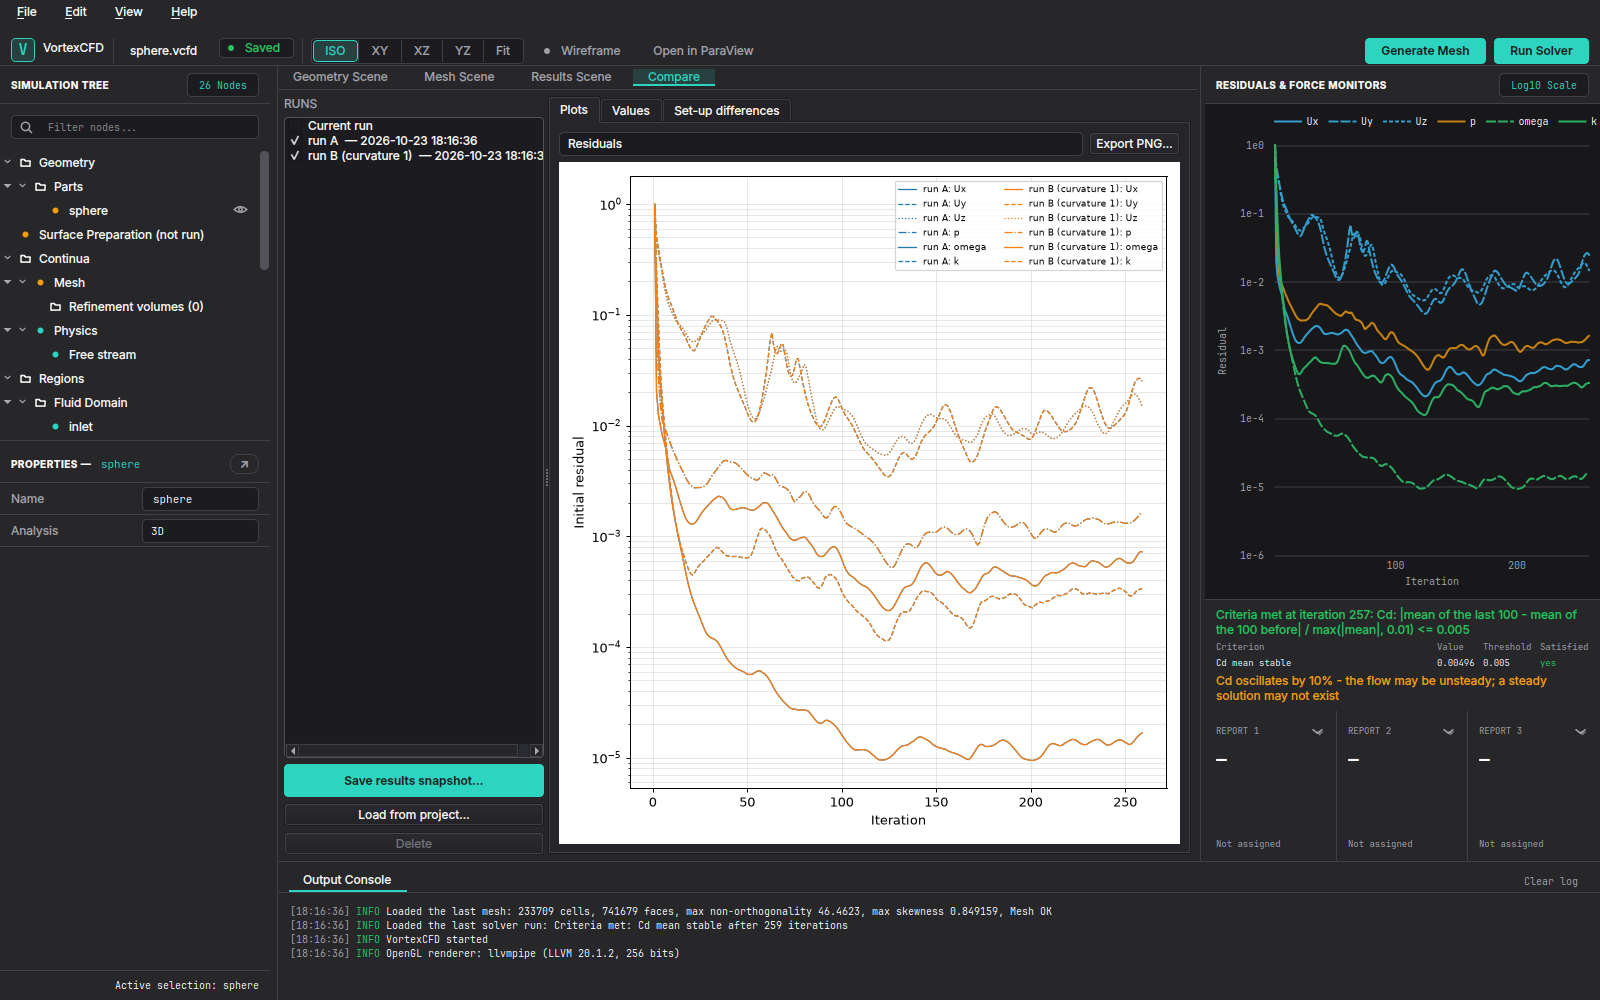
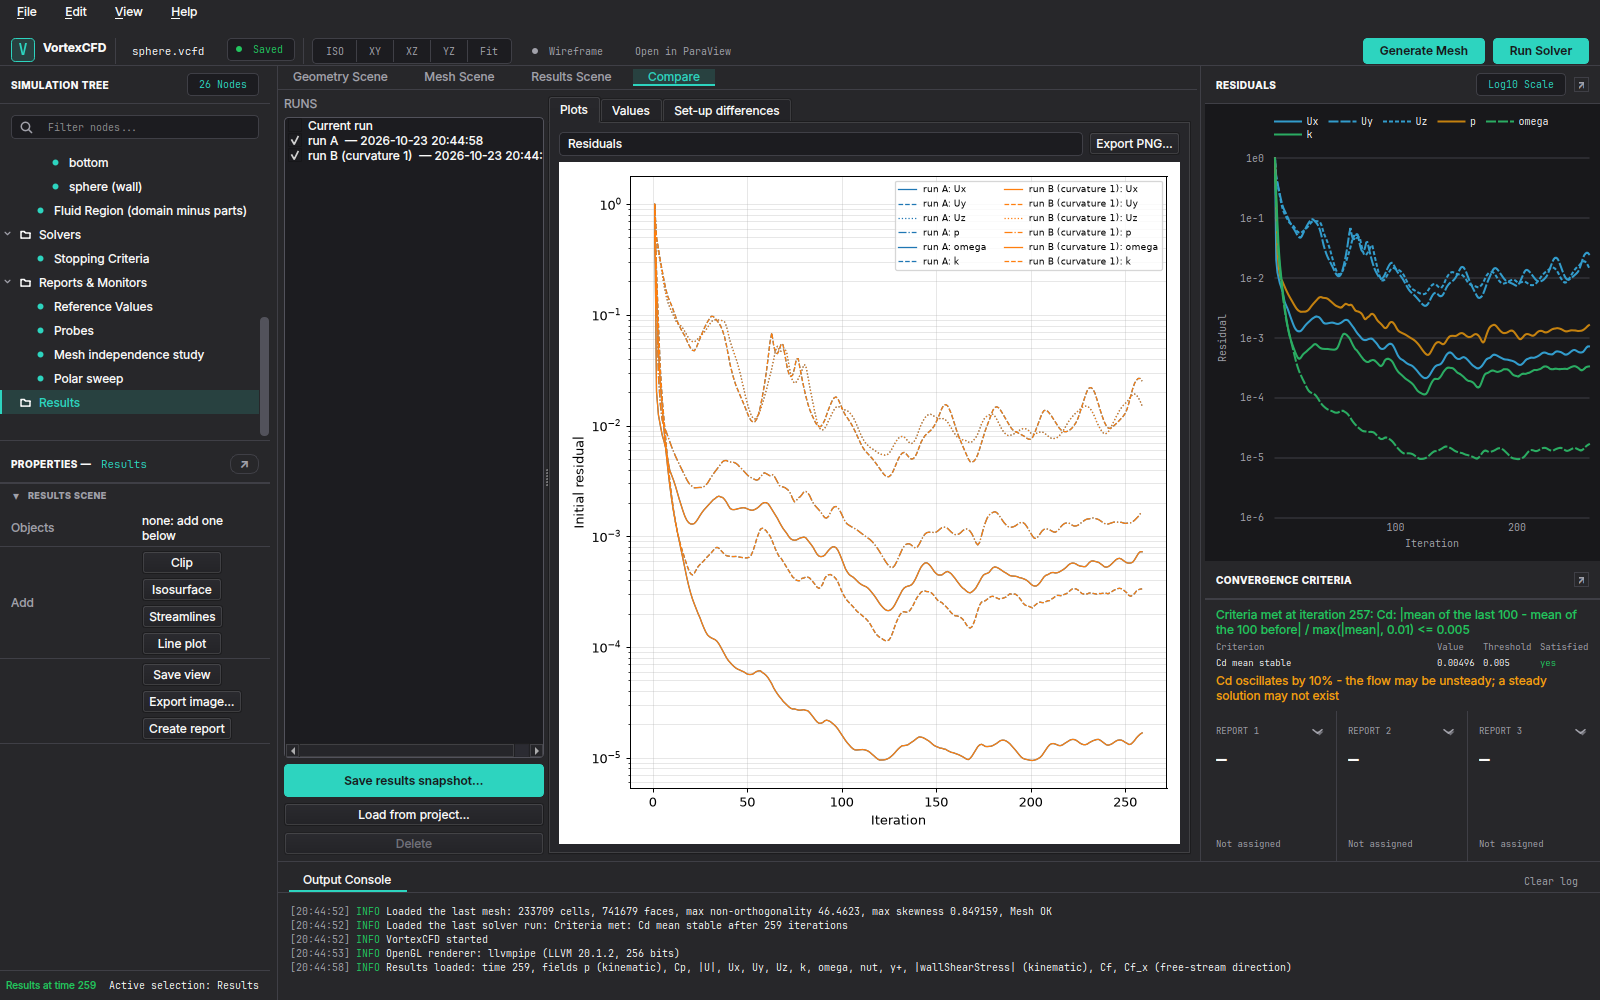
Task gui-polish: Wrap-up: STATUS, QUESTIONS, CHANGELOG and the manual's window pictures

diff --git a/docs/QUESTIONS.md b/docs/QUESTIONS.md
@@ -436,38 +436,38 @@ settled the open ones on 2026-10-17.
 223. **[OPEN]** **Recent list: temporary folders are refused and missing projects pruned (D-141).** The Recent list
      never records a project under the system temporary folder (/tmp, /var/tmp), and at start-up drops entries whose
      file no longer exists. A user who keeps real projects under /tmp would not see them in Recent. Accept?
-224. **[OPEN]** **Interface size values (D-148): Small 9 pt (default), Medium 10 pt, Large 12 pt.** The previous default
+224. **[ACCEPTED (owner, 2026-10-23)]** **Interface size values (D-148): Small 9 pt (default), Medium 10 pt, Large 12 pt.** The previous default
      was 11 pt. Inputs and tree rows are now 1.6 u high (were 2 u and 1.8 u). Accept the sizes?
-225. **[OPEN] [NUMERICS-REVIEW]** **Curvature refinement: the maximum extra levels is now 4 (was 2, D-085), the default
+225. **[ACCEPTED (owner, 2026-10-23)] [NUMERICS-REVIEW]** **Curvature refinement: the maximum extra levels is now 4 (was 2, D-085), the default
      stays 2.** The owner asked for the maximum to be editable; the model cap was the "conservative 2" of D-085. A
      project at 0 to 2 writes the same dictionaries as before. Accept 4 as the new cap?
-226. **[OPEN]** **Domain extents entered in m or mm are stored in multiples of L (D-148).** The L / m / mm toggle is
+226. **[CLOSED (task gui-polish follow-up, 2026-10-23): the unit is stored with the value (schema v23, D-157); an extent in m or mm stays that length when L changes, one in L follows the parts]** **Domain extents entered in m or mm are stored in multiples of L (D-148).** The L / m / mm toggle is
      an entry unit: the value is converted with the current L and kept in L, as the domain always was (D-078). If the
      parts change, an extent typed as "3 m" becomes 3 m x (new L / old L). Storing physical extents as such would need
      a schema change. Keep the conversion, or store the unit with the value?
-227. **[OPEN] [NUMERICS-REVIEW]** **Editable domain face types (D-147).** A face set to a wall gets the parts' wall
+227. **[CLOSED (task gui-polish follow-up, 2026-10-23): a wall or moving-wall face has an optional Prism layers check box, off by default (D-161, [NUMERICS-REVIEW]); the public benchmarks' dictionaries are byte-identical to main's]** [NUMERICS-REVIEW] **Editable domain face types (D-147).** A face set to a wall gets the parts' wall
      functions (nutUSpaldingWallFunction) and no prism layers; a moving wall moves at the free-stream speed along +x
      (as the moving ground). There is no y+ layer sizing on domain walls. Run Solver requires at least one velocity
      inlet and one pressure outlet. Accept, or should a domain wall get the parts' layers (like the ground option)?
-228. **[OPEN]** **The properties panel detaches into a window, not a QDockWidget (D-148).** The left column is part of
+228. **[ACCEPTED (owner, 2026-10-23)]** **The properties panel detaches into a window, not a QDockWidget (D-148).** The left column is part of
      the central widget under the top bar (D-041); a Qt dock area would sit beside the top bar and change the
      window's layout. The panel's header button (or closing its window) docks it back. Accept, or move the panel to
      a real dock (and the top bar to a tool bar)?
-229. **[OPEN]** **Delete in the tree now asks first and also removes refinement volumes, results objects and saved
+229. **[ACCEPTED (owner, 2026-10-23)]** **Delete in the tree now asks first and also removes refinement volumes, results objects and saved
      views (D-145).** Before, Delete removed a selected part at once and did nothing on other nodes. Accept?
-230. **[OPEN]** **Imported refinement regions must be closed surfaces (D-145)**, in both modes (inside and distance);
+230. **[CLOSED (task gui-polish follow-up, 2026-10-23): open surfaces are accepted in the distance mode; the inside mode still needs a closed one (D-159)]** **Imported refinement regions must be closed surfaces (D-145)**, in both modes (inside and distance);
      a distance-mode region could be an open sheet in snappyHexMesh. Allow open surfaces for the distance mode?
-231. **[OPEN]** **Snapshots keep the line plots only once the Results Scene has computed them (D-149).** A snapshot
+231. **[CLOSED (task gui-polish follow-up, 2026-10-23): a snapshot samples every line plot itself when it is saved (D-160)]** **Snapshots keep the line plots only once the Results Scene has computed them (D-149).** A snapshot
      saved before the results were shown has no line plots (computing them would read the results on the GUI
      thread). Accept, or compute them when the snapshot is saved?
-232. **[OPEN]** **Show in OpenFOAM file writes a preview to <project>/case_preview/ when the case has no such file
+232. **[ACCEPTED (owner, 2026-10-23)]** **Show in OpenFOAM file writes a preview to <project>/case_preview/ when the case has no such file
      (D-150)**, never the case itself (writing the case would delete a mesh or results). The folder stays in the
      project. Accept, or delete it when the viewer closes?
-233. **[OPEN]** **Open in ParaView is enabled once the case has a mesh (D-151)**, not only with results as before,
+233. **[ACCEPTED (owner, 2026-10-23)]** **Open in ParaView is enabled once the case has a mesh (D-151)**, not only with results as before,
      and lives in the top bar (the Results Scene's strip lost its own button). Accept?
-234. **[OPEN]** **The polar sweep is off in new projects and on in every project saved before v22 that has its
+234. **[ACCEPTED (owner, 2026-10-23)]** **The polar sweep is off in new projects and on in every project saved before v22 that has its
      studies (D-148).** Accept, or turn it off for older projects too (their records stay readable)?
-235. **[OPEN]** **The default properties column stays 18 u** (the D-041 rule keeps the viewer at least half the window);
+235. **[ACCEPTED (owner, 2026-10-23)]** **The default properties column stays 18 u** (the D-041 rule keeps the viewer at least half the window);
      at the Small size the Auto fields' values fit with little room ("0.2685 m"). Widen the default column and
      relax the viewer rule?
 236. **[OPEN]** **The colormap selector that stopped responding (D-152) could not be reproduced offscreen.** The fix

diff --git a/docs/STATUS.md b/docs/STATUS.md
@@ -38,10 +38,33 @@ overhauls it and adds three features a user (Carla) asked for. Done on it, one o
 - Machine time: one real mesh (38 s, nice 15), the manual's image export (20 s, no OpenFOAM), the fast test run.
   No OpenFOAM process left running.
 
-Next: the owner's review of D-141 to D-151 and QUESTIONS 223 to 235 (the [NUMERICS-REVIEW] items: D-145, D-147, the
-curvature cap in D-148); then scripts/ship.sh and the v1.0.0 tag (docs/RELEASE_v1.md). Open: docs/QUESTIONS.md items
-30, 67, 69, 70, 72, 73, 75, 82, 89 to 94, 96, 97, 122, 124, 125 to 128, 130, 131, 147, 167, 168 (a, c), 174, 214,
-223 to 235.
+Follow-up (the owner's 13 items), one commit each:
+- Item 10 (D-152): the Results selectors apply after their popup has closed (QUESTIONS 236 asks for a check on the
+  real display).
+- Item 2 (D-153): text roles in the theme, the only text sizes (a test fails on any other); a role re-applied after
+  an interface size change and after a state change (text kept its old size until a restart).
+- Item 1 (D-154): New simulation fits its content, only the preset list gives way, a unique default name.
+- Item 11 (D-155): the status badge sized from its font (descenders were cut), a compact top bar, a minimum window
+  size (66 x 36 font heights).
+- Item 9 (D-156): the residual chart and the convergence criteria detach into their own windows (live, remembered,
+  docked when their screen is gone).
+- Item 5 (D-157): domain extents in m or mm stored in that unit (schema v23).
+- Items 3, 4 (D-158): every screen at three window and three interface sizes (scripts/gui_review_sizes.py,
+  run/gui_review/fix/<screen>/<window size>_<interface size>.png); fixes (the monitors column scrolls, elided names,
+  the legend wraps, minimum sizes, rebuilt rows no longer drawn over); tests/test_screen_layouts.py checks overlaps,
+  clipped text and cut widgets at each screen's minimum and each interface size.
+- Item 6 (D-159): open surfaces as refinement regions in the distance mode.
+- Item 7 (D-160): a snapshot samples every line plot itself.
+- Item 8 (D-161, [NUMERICS-REVIEW]): optional prism layers on wall domain faces, off by default; the public
+  benchmarks' dictionaries byte-identical to main's (`diff -r`, 51 files).
+- Item 12 (D-162): the licence statement, CONTRIBUTING.md, issue and pull request templates, the .gitignore audit.
+- Item 13: final screenshots (run/gui_review/final/, run/gui_review/fix/), the manual's window pictures, QUESTIONS
+  226, 227, 230, 231 closed and 224, 225, 228, 229, 232 to 235 accepted by the owner.
+- Machine time: no OpenFOAM run in the follow-up; offscreen screenshots and the fast test run at nice 15.
+
+Next: the owner's review of D-152 to D-162 (the [NUMERICS-REVIEW] item: D-161) and QUESTIONS 223 and 236; then
+scripts/ship.sh and the v1.0.0 tag (docs/RELEASE_v1.md). Open: docs/QUESTIONS.md items 30, 67, 69, 70, 72, 73, 75,
+82, 89 to 94, 96, 97, 122, 124, 125 to 128, 130, 131, 147, 167, 168 (a, c), 174, 214, 223, 236.
 
 ### Previous branch (task/release-1.0.0, published in PR #34)
 

diff --git a/CHANGELOG.md b/CHANGELOG.md
@@ -96,6 +96,12 @@ user manual is docs/manual/.
 - Results snapshots and a Compare tab: overlays, value and set-up difference tables, PNG / CSV export and a
   Comparison section in the report (D-149); Show in OpenFOAM file on every written property (D-150); Open in
   ParaView in the top bar (D-151).
+- One set of text roles for every text (D-153); every screen checked, and tested, at three window and three
+  interface sizes, with a sensible minimum size, the monitors column scrolling and nothing clipped (D-154, D-155,
+  D-158); the residual chart and the convergence criteria in windows of their own, remembered (D-156).
+- Domain extents in m or mm kept as fixed lengths (schema v23, D-157); open surfaces as distance-mode refinement
+  regions (D-159); snapshots sample every line plot (D-160); optional prism layers on wall domain faces, off by
+  default (D-161).
 
 ### Validation
 
